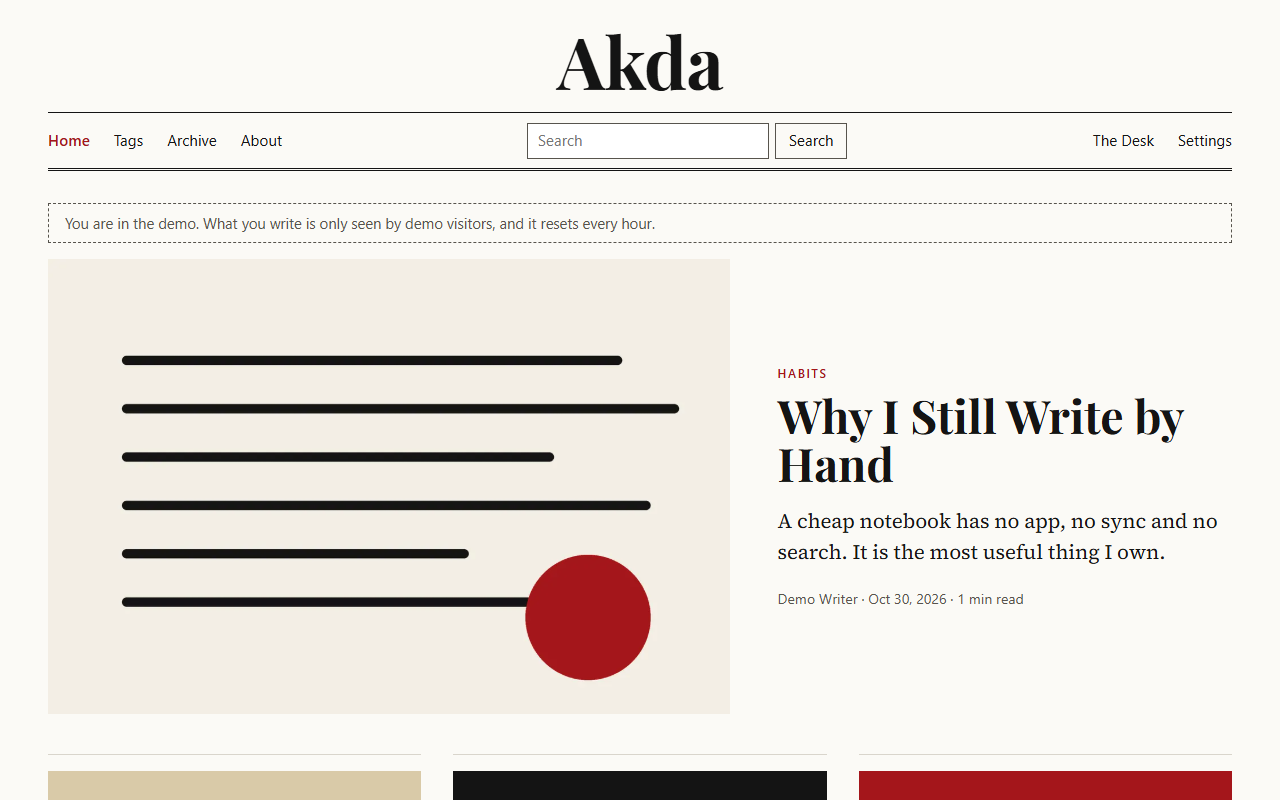
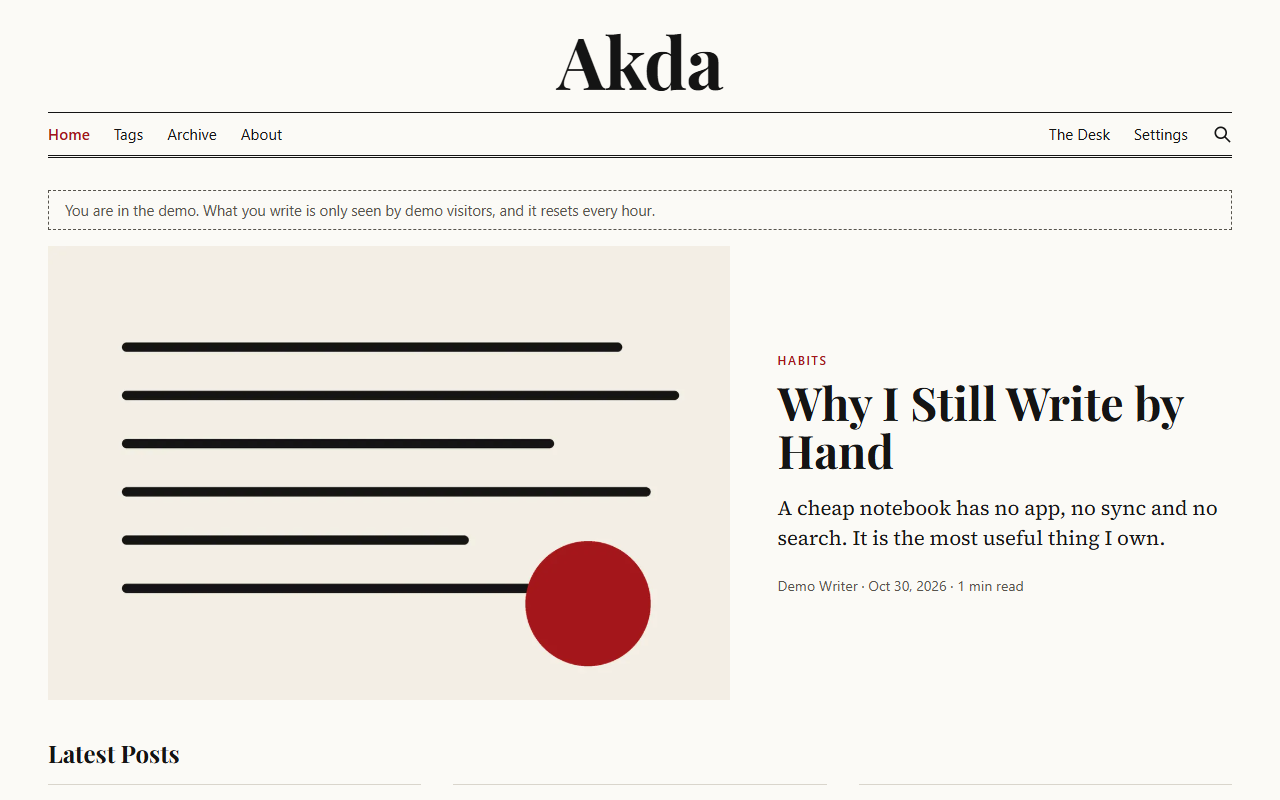
Tidy the header and add more to the home page
From a design review the owner pasted.

- search is now a magnifying glass that opens a bar under the menu; without
  JavaScript it is a link to the search page, which now has its own form
- home page: a Latest Posts heading (Older Posts from page 2), and Browse by Tag
  with the 15 most used tags, counting visible posts only
- fix: the Desk's menu button was hidden at tablet widths (768-896px),
  so its menu could not be opened
- fix: flash messages were indented compared with the rest of the page
- README screenshots retaken

diff --git a/akda/static/style.css b/akda/static/style.css
@@ -97,9 +97,14 @@ img { max-width: 100%; height: auto; display: block; }
   letter-spacing: -.01em;
   text-decoration: none;
 }
+.masthead-tools { position: absolute; right: 0; display: flex; align-items: center; gap: .5rem; }
+.search-toggle { display: inline-flex; align-items: center; justify-content: center; color: inherit; }
+.search-toggle:hover, .search-toggle[aria-expanded="true"], .search-toggle[aria-current="page"] { color: var(--accent); }
+.search-toggle-phone { width: var(--control-height); height: var(--control-height); border: 1px solid var(--rule); }
+.search-bar { display: flex; gap: .5rem; padding: .75rem 0; border-bottom: 1px solid var(--ink); }
+.search-bar input { flex: 1; min-width: 0; }
+.search-page-form { max-width: 42rem; padding: 0; margin-bottom: 1.5rem; border-bottom: 0; }
 .menu-button {
-  position: absolute;
-  right: 0;
   height: var(--control-height);
   padding: 0 .9rem;
   background: none;
@@ -127,14 +132,16 @@ img { max-width: 100%; height: auto; display: block; }
 .link-button:hover { color: var(--accent); text-decoration: underline; }
 
 /* With JavaScript, phones get a menu button. Without it, the menu just stays open. */
-@media (min-width: 48rem) { .menu-button { display: none !important; } }
+@media (min-width: 48rem) {
+  .masthead .menu-button, .search-toggle-phone { display: none !important; }
+}
 @media (max-width: 47.99rem) {
+  .search-toggle-wide { display: none; }
   .masthead-top { justify-content: flex-start; }
   .wordmark { font-size: 2.75rem; }
   .js .site-nav { display: none; border-bottom: 1px solid var(--ink); }
   .js .site-nav.is-open { display: flex; flex-direction: column; align-items: flex-start; }
   .js .site-nav.is-open .nav-links, .js .site-nav.is-open .nav-tools { flex-direction: column; align-items: flex-start; gap: .5rem; }
-  .js .site-nav.is-open .search-box { flex: none; width: 100%; margin: .25rem 0; }
   .js .masthead-top { border-bottom: 3px double var(--ink); }
   .js .masthead .site-nav.is-open { border-top: 0; }
 }
@@ -156,7 +163,7 @@ img { max-width: 100%; height: auto; display: block; }
 .site-footer { padding: 1.5rem clamp(1rem, 4vw, 3rem); border-top: 1px solid var(--rule); color: var(--ink-soft); font-size: .9rem; text-align: center; }
 .site-footer p { margin: 0; }
 
-.flashes { max-width: 110rem; width: 100%; margin: 1rem auto 0; padding: 0 clamp(1rem, 4vw, 3rem); }
+.flashes { margin: 0 0 1rem; }
 .flash { margin: 0 0 .5rem; padding: .7rem 1rem; background: var(--flash); border-left: 3px solid var(--accent); }
 
 /* ---------- Forms and buttons ---------- */
@@ -167,7 +174,7 @@ img { max-width: 100%; height: auto; display: block; }
 .field { display: flex; flex-direction: column; gap: .3rem; }
 .field-label { font-weight: 600; font-size: .95rem; }
 .hint { font-weight: 400; color: var(--ink-soft); }
-.field input, .field textarea, .field select, .search-box input {
+.field input, .field textarea, .field select, .search-bar input {
   width: 100%;
   min-height: var(--control-height);
   padding: .5rem .7rem;
@@ -242,6 +249,14 @@ img { max-width: 100%; height: auto; display: block; }
 .featured-title a:hover, .post-card h2 a:hover { text-decoration: underline; text-decoration-thickness: 2px; }
 .featured-summary { font-family: var(--reading); font-size: clamp(1.15rem, 1.6vw, 1.4rem); max-width: 40em; }
 
+.section-title { font-size: 1.5rem; margin-bottom: 1rem; }
+.section-head { display: flex; flex-wrap: wrap; justify-content: space-between; align-items: baseline; gap: .25rem 1.5rem; margin-bottom: 1rem; }
+.section-head h2 { margin: 0; }
+.tag-cloud-section { margin-top: 3rem; padding-top: 1.5rem; border-top: 1px solid var(--ink); }
+.tag-cloud { list-style: none; display: flex; flex-wrap: wrap; gap: .5rem; margin: 0; padding: 0; }
+.tag-cloud a { display: inline-flex; align-items: baseline; gap: .5rem; padding: .35rem .8rem; border: 1px solid var(--rule); text-decoration: none; }
+.tag-cloud a:hover { border-color: var(--accent); }
+
 .post-grid { display: grid; grid-template-columns: repeat(auto-fill, minmax(min(100%, 19rem), 1fr)); gap: 2.5rem 2rem; }
 .featured-with-cover { align-items: center; }
 .featured-cover img { width: 100%; aspect-ratio: 3 / 2; object-fit: cover; }
@@ -311,9 +326,6 @@ img { max-width: 100%; height: auto; display: block; }
 .archive-month li { display: flex; flex-wrap: wrap; justify-content: space-between; align-items: baseline; gap: .1rem 1rem; padding: .3rem 0; font-family: var(--reading); }
 .archive-month a { text-decoration: none; }
 .archive-month a:hover { text-decoration: underline; }
-.search-box { display: flex; gap: .4rem; margin: 0; flex: 0 1 20rem; }
-.search-box input { min-height: 2.25rem; padding: .25rem .6rem; }
-.search-box .button { min-height: 2.25rem; padding: 0 .8rem; }
 .kicker a { text-decoration: none; }
 .kicker a:hover { text-decoration: underline; }
 .article-body { font-family: var(--reading); font-size: 1.18rem; line-height: 1.7; }

diff --git a/akda/templates/base.html b/akda/templates/base.html
@@ -15,25 +15,26 @@
 <body class="{% block body_class %}{% endblock %}">
   <a class="skip-link" href="#main">Skip to content</a>
   {% block header %}
+  {% from "_macros.html" import search_form, search_link %}
+  {% set page = request.endpoint %}
+  {% set on_search_page = page == 'public.search' %}
   <header class="masthead">
     <div class="masthead-top">
       <a class="wordmark" href="{{ url_for('public.home') }}">Akda</a>
-      <button class="menu-button" type="button" data-menu-button aria-expanded="false" aria-controls="site-nav" hidden>
-        <span aria-hidden="true">&#9776;</span> Menu
-      </button>
+      <div class="masthead-tools">
+        {{ search_link('search-toggle-phone', on_search_page) }}
+        <button class="menu-button" type="button" data-menu-button aria-expanded="false" aria-controls="site-nav" hidden>
+          <span aria-hidden="true">&#9776;</span> Menu
+        </button>
+      </div>
     </div>
     <nav class="site-nav" id="site-nav" aria-label="Main">
       <ul class="nav-links">
-        {% set page = request.endpoint %}
         <li><a href="{{ url_for('public.home') }}"{% if page == 'public.home' %} aria-current="page"{% endif %}>Home</a></li>
         <li><a href="{{ url_for('public.all_tags') }}"{% if page in ('public.all_tags', 'public.tag_page') %} aria-current="page"{% endif %}>Tags</a></li>
         <li><a href="{{ url_for('public.archive') }}"{% if page == 'public.archive' %} aria-current="page"{% endif %}>Archive</a></li>
         <li><a href="{{ url_for('public.about') }}"{% if page == 'public.about' %} aria-current="page"{% endif %}>About</a></li>
       </ul>
-      <form class="search-box" method="get" action="{{ url_for('public.search') }}" role="search">
-        <input type="search" name="q" value="{{ words if words is defined else '' }}" placeholder="Search" aria-label="Search posts" maxlength="100">
-        <button class="button button-quiet" type="submit">Search</button>
-      </form>
       <div class="nav-tools">
         {% if g.user %}
           {% if can.can_write(g.user) %}<a href="{{ url_for('desk.my_posts') }}">The Desk</a>{% endif %}
@@ -42,8 +43,11 @@
           <a href="{{ url_for('auth.signup') }}">Sign up</a>
         {% endif %}
         <a href="{{ url_for('auth.settings') }}"{% if page == 'auth.settings' %} aria-current="page"{% endif %}>Settings</a>
+        {{ search_link('search-toggle-wide', on_search_page) }}
       </div>
     </nav>
+    {# The search page has its own form, so it doesn't need this one. #}
+    {% if not on_search_page %}{{ search_form(id='site-search', hidden=True) }}{% endif %}
   </header>
   {% endblock %}
 

diff --git a/akda/templates/_macros.html b/akda/templates/_macros.html
@@ -2,6 +2,26 @@
 
 {% macro csrf() %}<input type="hidden" name="csrf_token" value="{{ csrf_token() }}">{% endmacro %}
 
+{# A plain link to the search page, so it works without JavaScript. On other pages
+   app.js makes it open the search bar under the menu instead. #}
+{% macro search_link(class, on_search_page) %}
+  <a class="search-toggle {{ class }}" href="{{ url_for('public.search') }}" aria-label="Search"
+     {% if on_search_page %}aria-current="page"{% else %}data-search-toggle aria-controls="site-search"{% endif %}>
+    <svg viewBox="0 0 24 24" width="20" height="20" fill="none" stroke="currentColor" stroke-width="2" stroke-linecap="round" aria-hidden="true">
+      <circle cx="10.5" cy="10.5" r="6.5"></circle>
+      <line x1="15.5" y1="15.5" x2="21" y2="21"></line>
+    </svg>
+  </a>
+{% endmacro %}
+
+{% macro search_form(words='', id=None, hidden=False, class='') %}
+  <form class="search-bar {{ class }}" method="get" action="{{ url_for('public.search') }}" role="search"
+        {% if id %}id="{{ id }}"{% endif %} {% if hidden %}hidden{% endif %}>
+    <input type="search" name="q" value="{{ words }}" placeholder="Search posts" aria-label="Search posts" maxlength="100">
+    <button class="button" type="submit">Search</button>
+  </form>
+{% endmacro %}
+
 {% macro field(name, label, value='', error=None, type='text', hint=None, attrs='') %}
   <label class="field{% if error %} has-error{% endif %}">
     <span class="field-label">{{ label }}{% if hint %} <span class="hint">{{ hint }}</span>{% endif %}</span>

diff --git a/akda/static/app.js b/akda/static/app.js
@@ -39,6 +39,34 @@ function setUpMenu() {
   });
 }
 
+// The magnifying glass opens the search bar under the menu. Without this it is
+// just a link to the search page.
+function setUpSearch() {
+  const bar = document.getElementById("site-search");
+  if (!bar) return;
+  const toggles = [...document.querySelectorAll("[data-search-toggle]")];
+  const setOpen = (open) => {
+    bar.hidden = !open;
+    toggles.forEach((toggle) => toggle.setAttribute("aria-expanded", open));
+    if (open) bar.querySelector("input").focus();
+  };
+  toggles.forEach((toggle) => {
+    toggle.setAttribute("role", "button");
+    toggle.setAttribute("aria-expanded", "false");
+    toggle.addEventListener("click", (event) => {
+      event.preventDefault();
+      setOpen(bar.hidden);
+    });
+  });
+  document.addEventListener("keydown", (event) => {
+    if (event.key !== "Escape" || bar.hidden) return;
+    setOpen(false);
+    // Back to whichever glass is showing on this screen size.
+    const showing = toggles.find((toggle) => toggle.offsetParent !== null);
+    if (showing) showing.focus();
+  });
+}
+
 function setUpConfirm() {
   document.querySelectorAll("form[data-confirm]").forEach((form) => {
     form.addEventListener("submit", (event) => {
@@ -231,5 +259,6 @@ function setUpEditor() {
 
 setUpTheme();
 setUpMenu();
+setUpSearch();
 setUpConfirm();
 setUpEditor();

diff --git a/akda/templates/home.html b/akda/templates/home.html
@@ -3,8 +3,28 @@
 {% block content %}
   {% if featured or grid %}
     {% if featured %}{{ featured_post(featured) }}{% endif %}
-    {{ post_grid(grid) }}
+    {% if grid %}
+      {% if page == 1 %}
+        <h2 class="section-title">Latest Posts</h2>
+      {% else %}
+        <h1 class="section-title">Older Posts</h1>
+      {% endif %}
+      {{ post_grid(grid) }}
+    {% endif %}
     {{ pagination(page, pages, 'public.home') }}
+    {% if popular_tags %}
+      <section class="tag-cloud-section">
+        <div class="section-head">
+          <h2>Browse by Tag</h2>
+          <a href="{{ url_for('public.all_tags') }}">All tags</a>
+        </div>
+        <ul class="tag-cloud">
+          {% for tag, number in popular_tags %}
+            <li><a href="{{ url_for('public.tag_page', slug=tag.slug) }}">{{ tag.name }} <span class="byline">{{ number }}</span></a></li>
+          {% endfor %}
+        </ul>
+      </section>
+    {% endif %}
   {% else %}
     <div class="empty-state">
       <h1>Nothing Published Yet</h1>

diff --git a/akda/templates/search.html b/akda/templates/search.html
@@ -1,10 +1,12 @@
 {% extends "base.html" %}
 {% from "_cards.html" import post_grid, pagination %}
+{% from "_macros.html" import search_form %}
 {% block title %}Search - {{ APP_NAME }}{% endblock %}
 {% block content %}
   <h1 class="listing-title">Search</h1>
+  {{ search_form(words, class='search-page-form') }}
   {% if not words %}
-    <p class="page-intro">Type a word in the search box to find posts.</p>
+    <p class="page-intro">Type a word to find posts.</p>
   {% elif items %}
     <p class="page-intro">Posts that mention "{{ words }}"</p>
     {{ post_grid(items) }}

diff --git a/tests/test_home_and_search.py b/tests/test_home_and_search.py
@@ -1,0 +1,85 @@
+"""The home page's sections and the search bar that opens from the menu."""
+from datetime import timedelta
+
+from akda import posts
+from akda.dates import utcnow
+from akda.models import AUTHOR, DRAFT
+from akda.views.public import HOME_TAGS
+
+from .conftest import add_post, log_in_as, make_user
+
+
+# ---------- Home sections ----------
+
+def test_latest_posts_has_a_heading_only_when_there_are_cards(app, client, author_id):
+    add_post(app, author_id, title="Only One")
+    assert b"Latest Posts" not in client.get("/").data  # it is the banner, with no grid under it
+    add_post(app, author_id, title="Second One")
+    assert b"Latest Posts" in client.get("/").data
+
+
+def test_later_pages_say_older_posts(app, client, author_id):
+    for number in range(posts.GRID_SIZE + 2):
+        add_post(app, author_id, title=f"Number {number}", published_at=utcnow() - timedelta(days=number + 1))
+    second = client.get("/?page=2").data
+    assert b"Older Posts" in second and b"Latest Posts" not in second
+
+
+def test_the_tag_cloud_links_to_tags_with_their_counts(app, client, author_id):
+    add_post(app, author_id, title="One", tag_names=["python", "life"])
+    add_post(app, author_id, title="Two", tag_names=["python"])
+    page = client.get("/").data
+    assert b"Browse by Tag" in page and b'href="/tags"' in page
+    assert b'href="/tags/python">python <span class="byline">2</span>' in page
+    assert b'href="/tags/life">life <span class="byline">1</span>' in page
+
+
+def test_no_tag_cloud_without_tags(app, client, author_id):
+    add_post(app, author_id)
+    assert b"Browse by Tag" not in client.get("/").data
+
+
+def test_the_tag_cloud_shows_only_the_most_used_tags(app, client, author_id):
+    add_post(app, author_id, title="Popular", tag_names=["popular"])
+    add_post(app, author_id, title="Popular Too", tag_names=["popular"])
+    for number in range(HOME_TAGS):
+        add_post(app, author_id, title=f"Rare {number}", tag_names=[f"rare{number:02}"])
+    page = client.get("/").data
+    cloud = page[page.index(b"Browse by Tag"):]  # post cards also link to their tags
+    assert b'href="/tags/popular"' in cloud
+    assert cloud.count(b'href="/tags/rare') == HOME_TAGS - 1
+
+
+def test_the_tag_cloud_never_shows_hidden_posts_tags(app, client, author_id):
+    demo = make_user(app, "demo-writer", AUTHOR, is_demo=True)
+    add_post(app, author_id, title="Open", tag_names=["open"])
+    add_post(app, author_id, status=DRAFT, tag_names=["draftonly"])
+    add_post(app, author_id, published_at=utcnow() + timedelta(days=1), tag_names=["futureonly"])
+    add_post(app, demo, tag_names=["demoonly"])
+    page = client.get("/").data
+    assert b"open" in page
+    assert b"draftonly" not in page and b"futureonly" not in page and b"demoonly" not in page
+    assert b"demoonly" in log_in_as(app.test_client(), demo).get("/").data
+
+
+# ---------- Search ----------
+
+def test_the_menu_has_a_search_link_not_a_box(client):
+    page = client.get("/about").data
+    assert b'class="search-bar' in page and b'id="site-search"' in page
+    assert b"data-search-toggle" in page and b'href="/search"' in page
+    # The bar starts closed, so the menu stays clean.
+    start = page.index(b'id="site-search"')
+    assert b"hidden" in page[start:page.index(b">", start)]
+
+
+def test_the_search_page_has_its_own_form_and_keeps_the_words(client):
+    page = client.get("/search", query_string={"q": 'adobo "recipe"'}).data
+    assert b'id="site-search"' not in page and b"data-search-toggle" not in page
+    assert b'value="adobo &#34;recipe&#34;"' in page
+    assert page.count(b'action="/search"') == 1
+
+
+def test_the_search_page_form_is_there_with_nothing_typed(client):
+    page = client.get("/search").data
+    assert b'class="search-bar search-page-form"' in page and b"Type a word" in page

diff --git a/akda/views/public.py b/akda/views/public.py
@@ -12,6 +12,7 @@ from ..models import OWNER, Image, Post, Tag, User
 bp = Blueprint("public", __name__)
 
 SEARCH_MAX_LENGTH = 100
+HOME_TAGS = 15
 
 
 def page_number():
@@ -25,10 +26,12 @@ def page_number():
 def home():
     now = utcnow()
     page = page_number()
-    featured, grid, pages = posts.home_page(db.session(), g.user, now, page)
+    s = db.session()
+    featured, grid, pages = posts.home_page(s, g.user, now, page)
     if page > pages:
         abort(404)
-    return render_template("home.html", featured=featured, grid=grid, page=page, pages=pages)
+    return render_template("home.html", featured=featured, grid=grid, page=page, pages=pages,
+                           popular_tags=tags.with_counts(s, g.user, now, limit=HOME_TAGS))
 
 
 @bp.get("/posts/<slug>")

diff --git a/akda/tags.py b/akda/tags.py
@@ -44,12 +44,12 @@ def resolve(s, names):
     return result
 
 
-def with_counts(s, viewer, now):
+def with_counts(s, viewer, now, limit=None):
     """[(tag, number of visible posts)], most used first. An inner join with GROUP
     BY, so a tag whose posts are all hidden doesn't show at all."""
     number = func.count(Post.id)
     query = (select(Tag, number).join(post_tags, post_tags.c.tag_id == Tag.id)
              .join(Post, Post.id == post_tags.c.post_id)
              .where(posts.visible_filter(viewer, now))
-             .group_by(Tag.id).order_by(number.desc(), Tag.name))
+             .group_by(Tag.id).order_by(number.desc(), Tag.name).limit(limit))
     return s.execute(query).all()

diff --git a/AGENTS.md b/AGENTS.md
@@ -49,5 +49,8 @@ Python 3.13 is at `%LOCALAPPDATA%\Programs\Python\Python313\python.exe`. Use the
 - **Title Case** for the menu, page titles (`h1`), section headings, empty-state titles and anything that names a page ("My Posts", "On This Page"). Small words (a, an, the, and, or, of, in, on, to, for, with, as, at, by) stay lowercase unless first. **Sentence case** for everything else: action buttons ("New post", "Save draft"), labels, hints, messages. The main button of a page is last on the right.
 - Controls are the same height (`--control-height`) with bottoms aligned. Sizes in `rem`; the root font steps up at 1600 / 1920 / 2300px. The masthead and the page share `max-width: 110rem`, so their edges line up. The article stays at reading width (42rem), with side columns on wide screens.
 - Public pages have the masthead on top; the Desk (`desk_base.html`) has a sidebar from 56rem up and a ☰ menu below.
+- **Tags, Archive and About stay in the main menu.** Readers must never need Settings to find posts, and Settings only holds real settings.
+- **Search is a magnifying glass, not a box in the menu:** a link to `/search` that `setUpSearch()` in `app.js` turns into a button opening the `#site-search` bar under the menu (Escape closes it). The `/search` page has its own form.
+- The home page is the featured post, then Latest Posts (Older Posts from page 2), then Browse by Tag (`tags.with_counts(limit=)`, all the same size for neatness).
 - **README screenshots** live in `docs/screenshots/` and are taken as the demo. Retake a screenshot whenever its page changes visibly.
 - Commit messages and PR bodies go through files (`git commit -F`, `gh pr create --body-file`): PowerShell 5.1 breaks quotes in arguments.
